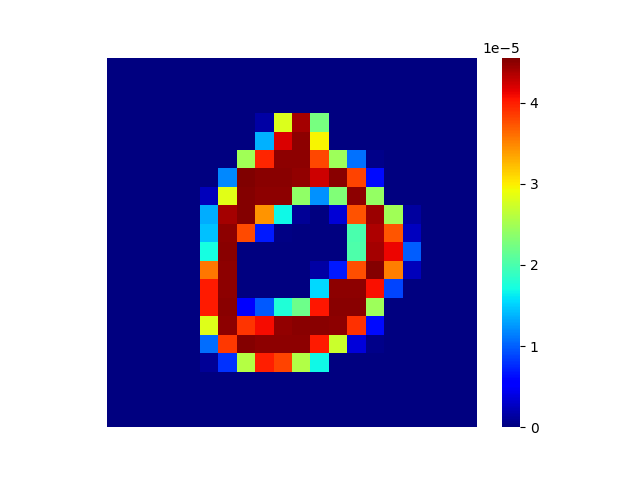
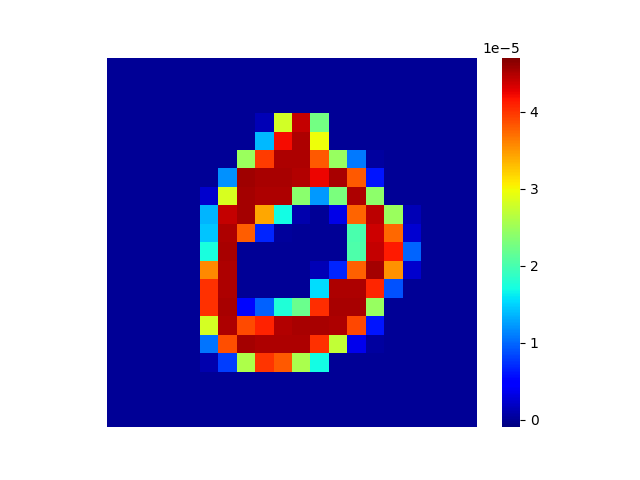
leakimage c

diff --git a/LeakGradient/leakimage.py b/LeakGradient/leakimage.py
@@ -11,12 +11,6 @@ import random
 tf.random.set_seed(0)
 random.seed(0)
 
-# 文字画像表示
-def img_show(data):
-    plt.figure()
-    sns.heatmap(data, square=True, xticklabels=False, yticklabels=False, cmap="jet", vmin=-0.05, vmax=1.05)
-    plt.savefig("./result/before.png")
-
 def load_mnist():
 	(x_train, y_train), (x_test, y_test) = mnist.load_data()
 
@@ -32,13 +26,11 @@ def load_mnist():
 	
 	return x_train, y_train, x_test, y_test
 
-def general_neural_networks():
+def general_neural_networks(x_train, y_train, x_test, y_test):
 	# parameter
 	batch_size = 200
 	learning_rate = 1e-4
 	epochs = 10
-
-	x_train, y_train, x_test, y_test = load_mnist()
 
 	# モデルの作成
 	model = tf.keras.models.Sequential([
@@ -70,22 +62,73 @@ def general_neural_networks():
 
 	# 勾配の計算
 	gradients = tape.gradient(loss, model.layers[1].trainable_variables)
-	print(gradients[0])
-	
+
 	grad_part = np.zeros(400)
 	for i in range(400):
 		grad_part[i] = gradients[0][i, 0]
-	print(grad_part)
 
 	return input_data, grad_part
 
 
+def general_neural_networks_with_regularization(x_train, y_train, x_test, y_test):
+	# parameter
+	batch_size = 200
+	learning_rate = 1e-4
+	epochs = 10
+	lam = 0.1
+
+	x_train, y_train, x_test, y_test = load_mnist()
+
+	# モデルの作成
+	model = tf.keras.models.Sequential([
+		tf.keras.layers.Flatten(input_shape=(20, 20)),
+		tf.keras.layers.Dense(25, activation=tf.nn.relu, use_bias=True, kernel_regularizer=tf.keras.regularizers.l2(lam)),
+		tf.keras.layers.Dense(10, activation=tf.nn.softmax, use_bias=True, kernel_regularizer=tf.keras.regularizers.l2(lam))
+	])
+ 
+	# モデルのコンパイル
+	model.compile(optimizer='sgd',
+				loss='categorical_crossentropy',
+				metrics=['accuracy'])
+
+	# モデルの概要を表示
+	model.summary()
+ 
+	# モデルの訓練
+	r = model.fit(x_train, y_train, validation_data=(x_test, y_test), epochs=epochs)
+
+	W = model.layers[1].get_weights()[0]
+
+	# 勾配を求める x_test[3]が0の画像
+	input_data = x_test[3].reshape(-1, 20, 20)
+	target_data = y_test[3].reshape(-1, 10)
+ 
+	with tf.GradientTape() as tape:
+		# 順伝播
+		predictions = model(input_data)
+		# 損失の計算
+		loss = tf.keras.losses.categorical_crossentropy(target_data, predictions)
+
+	# 勾配の計算
+	gradients = tape.gradient(loss, model.layers[1].trainable_variables)
+ 
+	grad_part = np.zeros(400)
+	for i in range(400):
+		grad_part[i] = (gradients[0][i, 0] + lam * W[i, 0])/ gradients[1][0]
+	print(grad_part)
+
+	return grad_part
+
 def main():
-	input_data, grad_part_b = general_neural_networks()
+	x_train, y_train, x_test, y_test = load_mnist()
+	input_data, grad_part_b = general_neural_networks(x_train, y_train, x_test, y_test)
+	grad_part_c = general_neural_networks_with_regularization(x_train, y_train, x_test, y_test)
+ 
 	input_data = input_data.reshape(20, 20)
 	grad_part_b = grad_part_b.reshape(20, 20)
+	grad_part_c = grad_part_c.reshape(20, 20)
 
-	# (a)	
+	# (a)
 	plt.figure()
 	sns.heatmap(input_data, square=True, xticklabels=False, yticklabels=False, cmap="jet", vmin=-0.05, vmax=1.05)
 	plt.savefig("./result/a.png")
@@ -93,8 +136,14 @@ def main():
 
 	# (b)
 	plt.figure()
-	sns.heatmap(grad_part_b, square=True, xticklabels=False, yticklabels=False, cmap="jet")
+	sns.heatmap(grad_part_b, square=True, xticklabels=False, yticklabels=False, cmap="jet", vmin=-0.1*1e-5, vmax=4.7*1e-5)
 	plt.savefig("./result/b.png")
+	plt.close()
+
+	# (c)
+	plt.figure()
+	sns.heatmap(grad_part_c, square=True, xticklabels=False, yticklabels=False, cmap="jet")
+	plt.savefig("./result/c.png")
 	plt.close()
  
     
